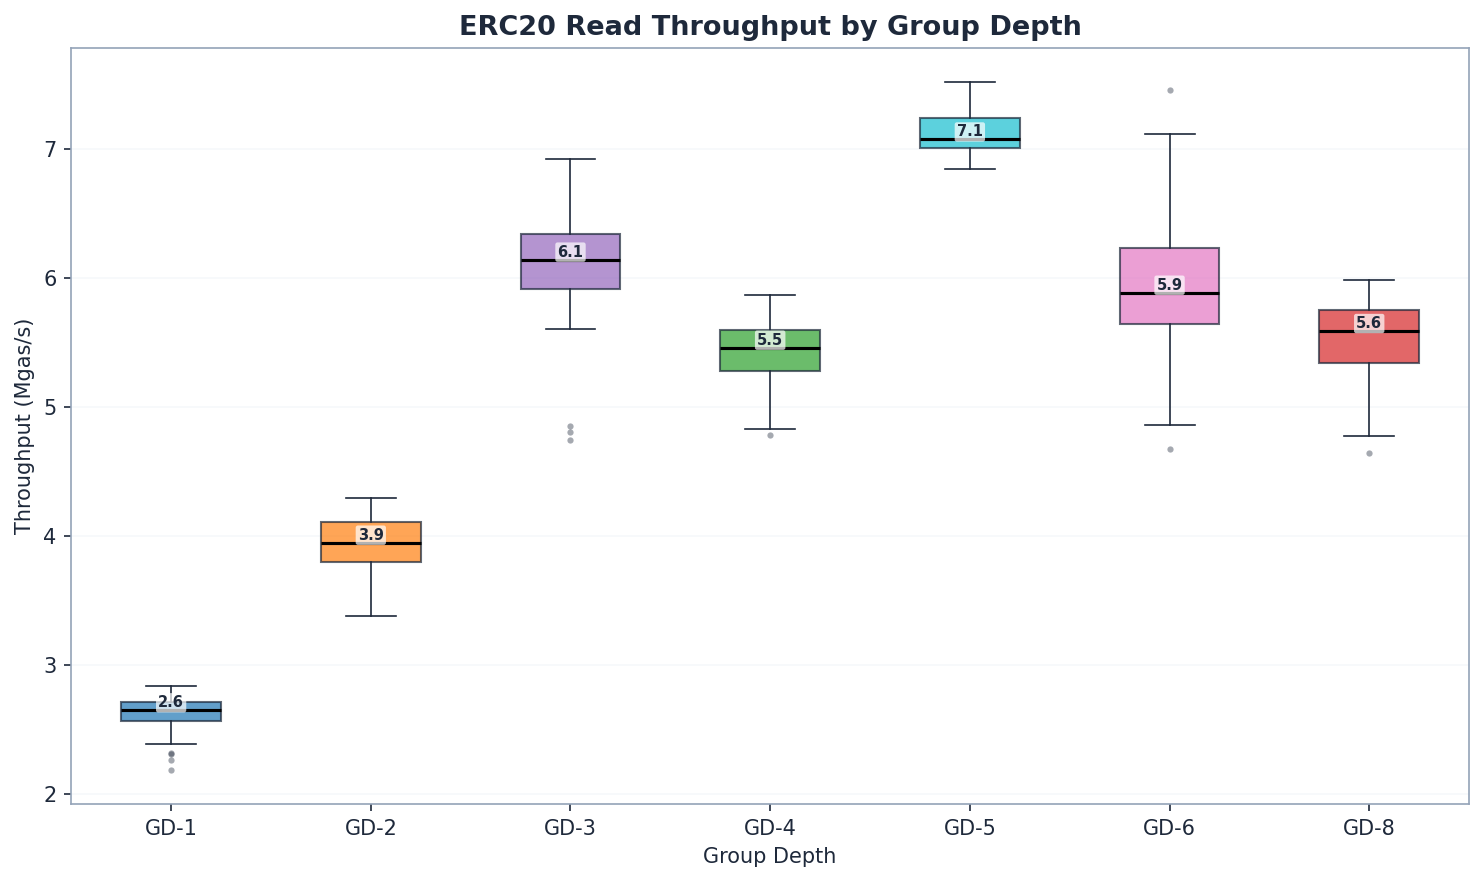
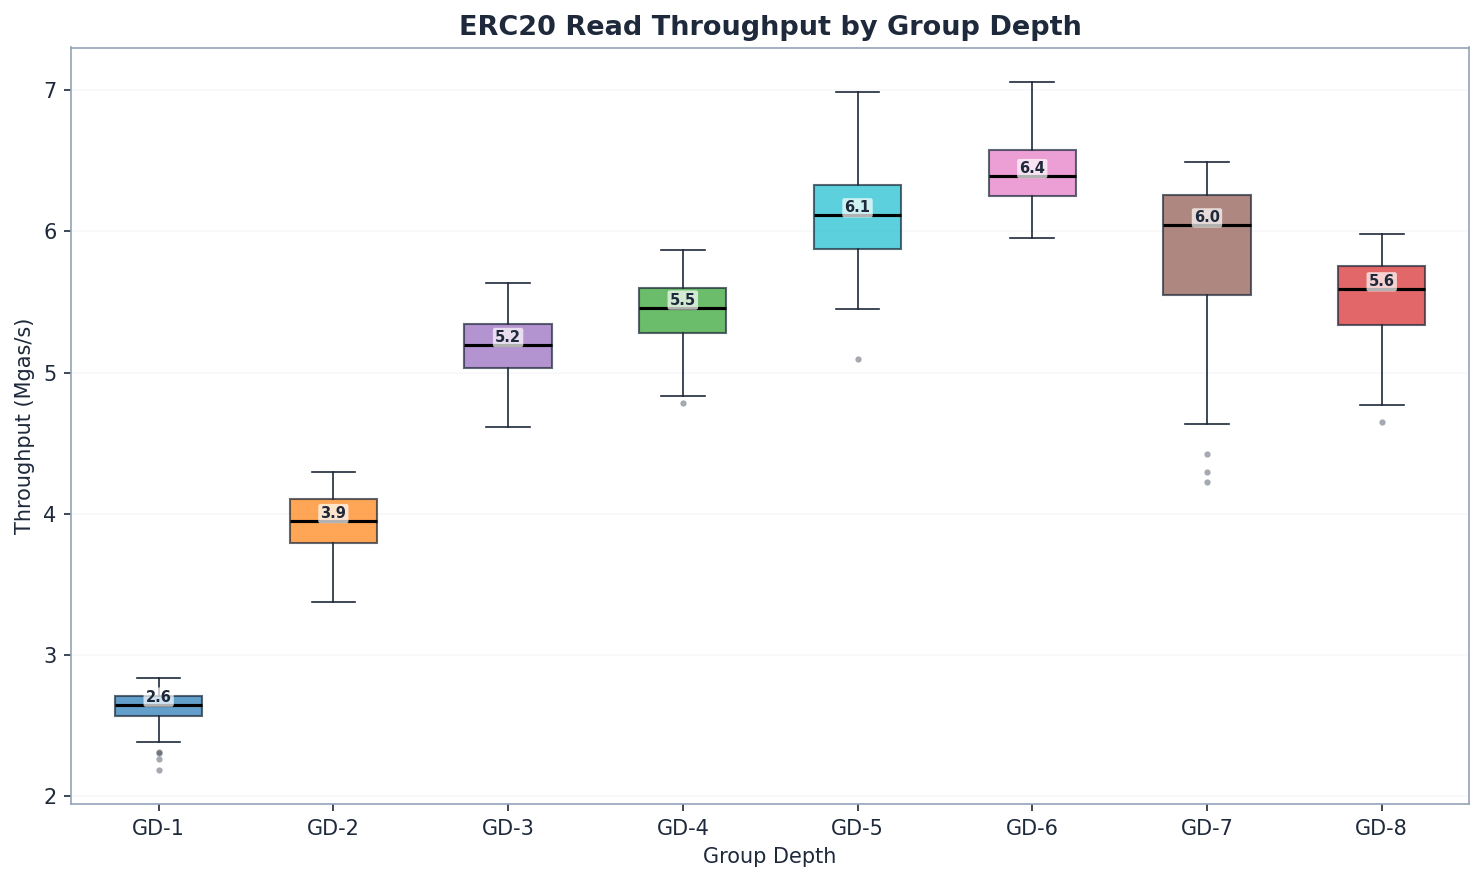
Add GD-7 to all benchmark graphs
GD-7 was missing from GD_ORDER in generate_graphs.py, so all
ERC20 and mixed workload graphs excluded it. Fix and regenerate
both dark and light theme PNGs.

diff --git a/group-depth-benchmarks/scripts/generate_graphs.py b/group-depth-benchmarks/scripts/generate_graphs.py
@@ -34,7 +34,7 @@ import matplotlib.ticker as mticker
 # Constants
 # ---------------------------------------------------------------------------
 
-GD_ORDER: list[int] = [1, 2, 3, 4, 5, 6, 8]
+GD_ORDER: list[int] = [1, 2, 3, 4, 5, 6, 7, 8]
 
 COLORS: dict[int, str] = {
     1: '#1f77b4',  # blue
